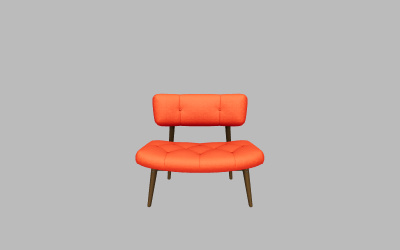
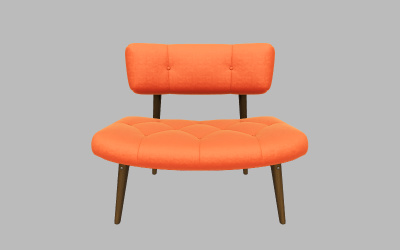
Updated webgl_loader_gltf_sheen example.

Changed region(s): [[0.21, 0.168, 0.78, 0.896]]

diff --git a/examples/webgl_loader_gltf_sheen.html b/examples/webgl_loader_gltf_sheen.html
@@ -34,7 +34,7 @@
 				document.body.appendChild( container );
 
 				camera = new THREE.PerspectiveCamera( 45, window.innerWidth / window.innerHeight, 0.1, 20 );
-				camera.position.set( 0, 1, 2 );
+				camera.position.set( 0, 0.75, 1.25 );
 
 				scene = new THREE.Scene();
 
@@ -73,7 +73,7 @@
 				controls.enableDamping = true;
 				controls.minDistance = 1;
 				controls.maxDistance = 10;
-				controls.target.set( 0, 0.5, 0 );
+				controls.target.set( 0, 0.35, 0 );
 				controls.update();
 
 				window.addEventListener( 'resize', onWindowResize );
